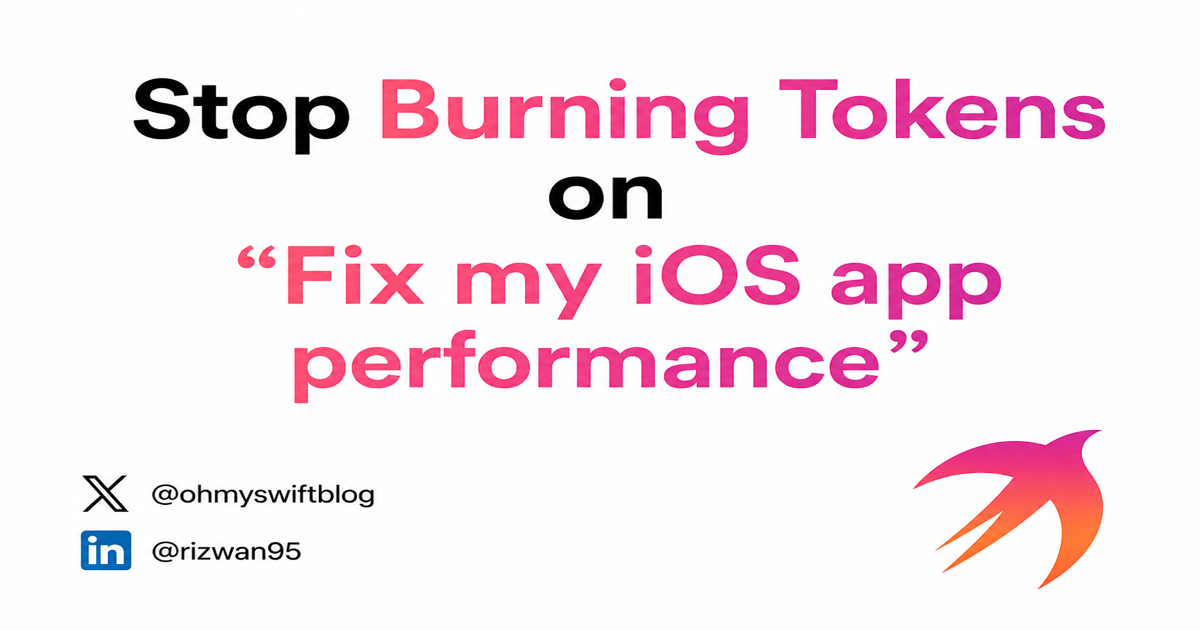
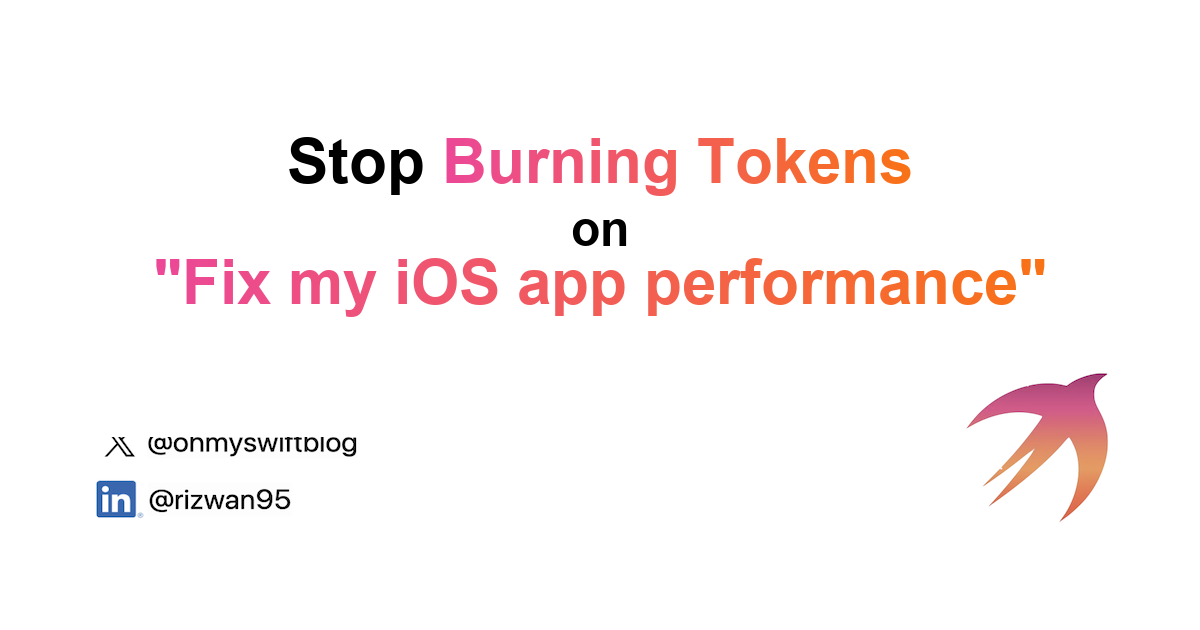
Replace blurry AI share images with crisp OG cards.

diff --git a/_posts/2026-08-02-stop-burning-tokens-on-fix-my-ios-app-performance.md b/_posts/2026-08-02-stop-burning-tokens-on-fix-my-ios-app-performance.md
@@ -13,6 +13,9 @@ image:
     path: assets/images/stop-burning-tokens/fb.png
     twitter: assets/images/stop-burning-tokens/twitter.png
     facebook: assets/images/stop-burning-tokens/fb.png
+    width: 1200
+    height: 630
+    alt: "Stop Burning Tokens on Fix my iOS app performance"
 ---
 
 I have been vibe coding a lot lately. And if I am honest, writing performant code with these tools is still a struggle. We are in 2026 and somehow most of them are still pretty bad at this part.
